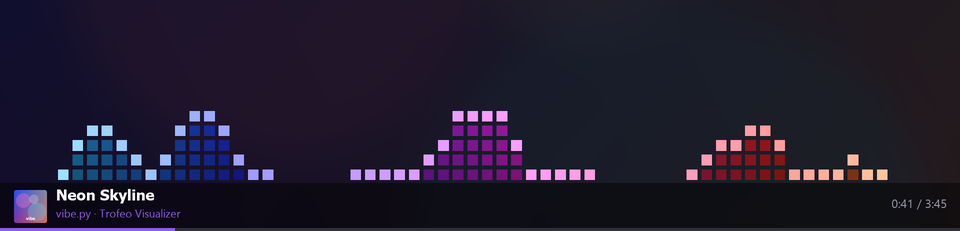
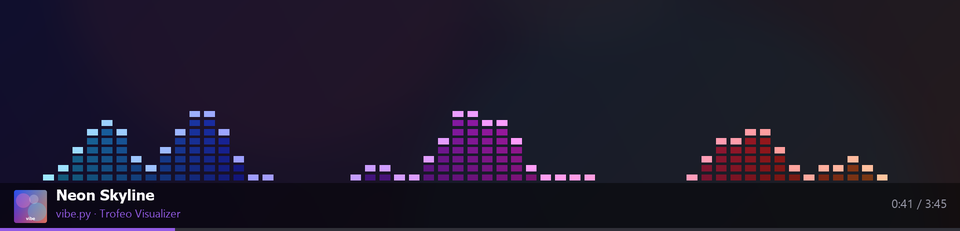
vibe.py: dots แบน (ทั้ง 2 แนว) + inverted จอนอน + หยดพีคทีละลูก + USB reconnect
- draw_dot_matrix: dot แบน ch=cell*0.62 + การันตี ≥16 แถวบน region เตี้ย (normal=invert เท่ากัน)
- inverted บนจอนอนอ่านออก (ลดความสูง dot ให้แถวพอ), เดิมมั่ว
- PeakDrops: 1 คอลัมน์=1 หยด (รอหยดเก่าร่วงหายก่อน) แทน spawn รัว ๆ
- main loop: catch USBError → reconnect (ไม่ crash จาก I/O glitch)
- docs: regenerate รูป dots เป็นแบบแบน

Changed region(s): [[0.0312, 0.4848, 0.3125, 0.7879], [0.3438, 0.4545, 0.625, 0.7879], [0.6875, 0.5455, 0.9375, 0.7879]]

diff --git a/vibe.py b/vibe.py
@@ -1066,29 +1066,20 @@ def _rebin(a, n):
 
 
 class PeakDrops:
-    """หยดพีคแบบแรงโน้มถ่วง (สำหรับ inverted): spawn หยดใหม่ที่ปลายแท่งเรื่อย ๆ ขณะเล่น
-    แต่ละหยดร่วงลงอิสระเร่งความเร็ว → มีหลายหยดร่วงพร้อมกันต่อคอลัมน์ (สายหยด)"""
+    """หยดพีคแบบแรงโน้มถ่วง (สำหรับ inverted): **1 คอลัมน์ = 1 หยด** — spawn หยดใหม่
+    ที่ปลายแท่งเฉพาะตอนหยดเก่าของคอลัมน์นั้นร่วงหายที่ก้นแล้ว (ไม่รัวหลายลูกพร้อมกัน)"""
 
-    def __init__(self, g=2.2, spawn_gap=0.14, cap=400):
-        self.g, self.spawn_gap, self.cap = g, spawn_gap, cap
+    def __init__(self, g=2.2, cap=200):
+        self.g, self.cap = g, cap
         self.drops = []              # [col, pos, vel]
-        self.cd = None               # cooldown spawn ต่อคอลัมน์
-        self.prev = None
 
     def update(self, cols, mag, dt=0.033):
-        if self.cd is None or len(self.cd) != cols:
-            self.cd = np.zeros(cols, np.float32)
-            self.prev = np.zeros(cols, np.float32)
-        self.cd -= dt
+        active = set(int(dp[0]) for dp in self.drops)   # คอลัมน์ที่ยังมีหยดร่วงอยู่
         for c in range(cols):
             m = float(mag[c])
-            # spawn หยดใหม่ที่ปลายแท่งเมื่อแท่งสูงพอ + พ้น cooldown (สายหยดต่อเนื่อง)
-            # หรือเมื่อแท่งพุ่งขึ้น (rising edge = จังหวะบีต) ให้หยดทันที
-            rising = m > self.prev[c] + 0.05
-            if m > 0.1 and (self.cd[c] <= 0 or rising) and len(self.drops) < self.cap:
+            # spawn เฉพาะคอลัมน์ที่ 'ว่าง' (หยดเก่าร่วงหายแล้ว) + แท่งสูงพอ
+            if m > 0.12 and c not in active and len(self.drops) < self.cap:
                 self.drops.append([c, m, 0.0])
-                self.cd[c] = self.spawn_gap
-            self.prev[c] = m
         alive = []
         for dp in self.drops:
             dp[2] += self.g * dt      # เร่งความเร็ว
@@ -1112,11 +1103,17 @@ def peak_drops():
 def draw_dot_matrix(d, x0, y0, w, h, bands, peaks, base_hue, cols=18, invert=False):
     """สเปกตรัมแบบ LED matrix: แต่ละคอลัมน์ = ย่านความถี่, ก่อพิกเซลสี่เหลี่ยมตาม mag
     ไล่ hue ตามคอลัมน์ (รุ้ง-ตามปก) + peak cap (ขาว) ตกช้า
-    invert=True → กลับหัว: แท่งห้อยจากบนลงล่าง, พีคร่วงลงล่าง"""
+    invert=True → กลับหัว: แท่งห้อยจากบนลงล่าง, พีคร่วงลงล่าง
+    (บน region เตี้ย (แนวนอน) จะลดความสูงแต่ละ dot ให้ได้แถวพอ → กลับหัวอ่านรู้เรื่อง)"""
     cell = w / cols
     pad = cell * 0.15
     cw = cell - 2 * pad
-    rows = int(h / cell)
+    ch = cell * 0.62                              # dot แบน (สูง ~0.62 ของกว้าง) ดูดีกว่าจัตุรัส
+    if h / ch < 16:                               # region เตี้ย → แบนเพิ่มให้ได้ ≥16 แถว (normal เท่า invert)
+        ch = h / 16
+    vpad = min(pad, ch * 0.18)
+    cht = ch - 2 * vpad                           # ความสูงตัว dot (ลบ padding แนวตั้ง)
+    rows = max(1, int(h / ch))
     cm = _rebin(bands, cols)
     pk = _rebin(peaks, cols) if peaks is not None else cm
     drops = peak_drops().update(cols, cm) if invert else None  # หยดพีคหลายลูก (invert)
@@ -1125,15 +1122,15 @@ def draw_dot_matrix(d, x0, y0, w, h, bands, peaks, base_hue, cols=18, invert=Fal
         hue = base_hue + (c / max(1, cols - 1)) * 210.0
         cx = x0 + c * cell + pad
         for r in range(lit):
-            cyt = (y0 + r * cell + pad) if invert else (y0 + h - (r + 1) * cell + pad)
+            cyt = (y0 + r * ch + vpad) if invert else (y0 + h - (r + 1) * ch + vpad)
             v = 0.5 + 0.5 * (r / rows)
-            d.rectangle([cx, cyt, cx + cw, cyt + cw], fill=_hsv(hue, 0.85, v) + (240,))
+            d.rectangle([cx, cyt, cx + cw, cyt + cht], fill=_hsv(hue, 0.85, v) + (240,))
         if not invert:                                # peak-hold ปกติ (เด้งขึ้น ตกช้า)
             pr = int(round(float(pk[c]) * rows))
             if 0 < pr <= rows:
-                cyt = y0 + h - pr * cell + pad
+                cyt = y0 + h - pr * ch + vpad
                 cap = _lerp(_hsv(hue, 0.85, 1.0), (255, 255, 255), 0.55)
-                d.rectangle([cx, cyt, cx + cw, cyt + cw], fill=cap + (255,))
+                d.rectangle([cx, cyt, cx + cw, cyt + cht], fill=cap + (255,))
     if invert:                                        # หยดพีคร่วงลง — วาดเฉพาะตอนพ้นปลายแท่ง (ไม่ทับแท่ง)
         for col, pos, _v in drops:
             if pos <= float(cm[col]) + 0.5 / rows:    # ยังอยู่ในแท่ง → ข้าม (ดันให้โผล่ใต้แท่ง)
@@ -1142,9 +1139,9 @@ def draw_dot_matrix(d, x0, y0, w, h, bands, peaks, base_hue, cols=18, invert=Fal
             if 0 < pr <= rows:
                 hue = base_hue + (col / max(1, cols - 1)) * 210.0
                 cx = x0 + col * cell + pad
-                cyt = y0 + (pr - 1) * cell + pad
+                cyt = y0 + (pr - 1) * ch + vpad
                 cap = _lerp(_hsv(hue, 0.85, 1.0), (255, 255, 255), 0.55)
-                d.rectangle([cx, cyt, cx + cw, cyt + cw], fill=cap + (255,))
+                d.rectangle([cx, cyt, cx + cw, cyt + cht], fill=cap + (255,))
 
 
 # ── waveform มิเรอร์ (เส้นบางยื่นซ้าย-ขวารอบเส้นกลางเรืองแสง — สไตล์ภาพอ้างอิง) ──
@@ -1563,7 +1560,22 @@ def main():
                     snap["_viz"] = rnd_viz
             canvas = render_fn(snap, bands, active, t, peaks, mascot=manim)
             wire = to_wire(canvas, info["width"], info["height"], angle)
-            lcd.send_jpeg(to_jpeg(wire, args.quality))
+            try:
+                lcd.send_jpeg(to_jpeg(wire, args.quality))
+            except Exception as e:            # USB glitch (I/O error ฯลฯ) → reconnect ไม่ crash
+                log("USB error:", type(e).__name__, e, "— reconnect ...")
+                try:
+                    lcd.close()
+                except Exception:
+                    pass
+                stop_evt.wait(0.6)
+                try:
+                    info = lcd.open()
+                    log("reconnect สำเร็จ")
+                except Exception as e2:
+                    log("reconnect ล้ม:", e2, "— รอ 2s")
+                    stop_evt.wait(2.0)
+                continue
             if t >= gc_next:                  # เก็บขยะเป็นระยะ (ครั้งเดียว/20s) แทน GC อัตโนมัติ
                 gc.collect()
                 gc_next = t + 20.0